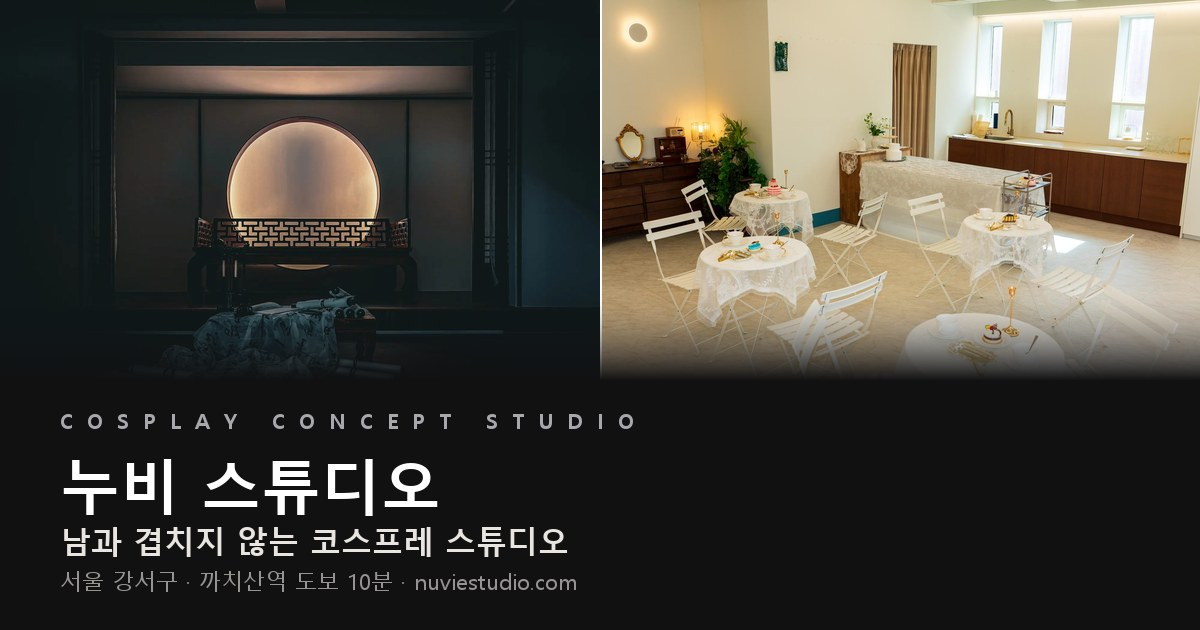
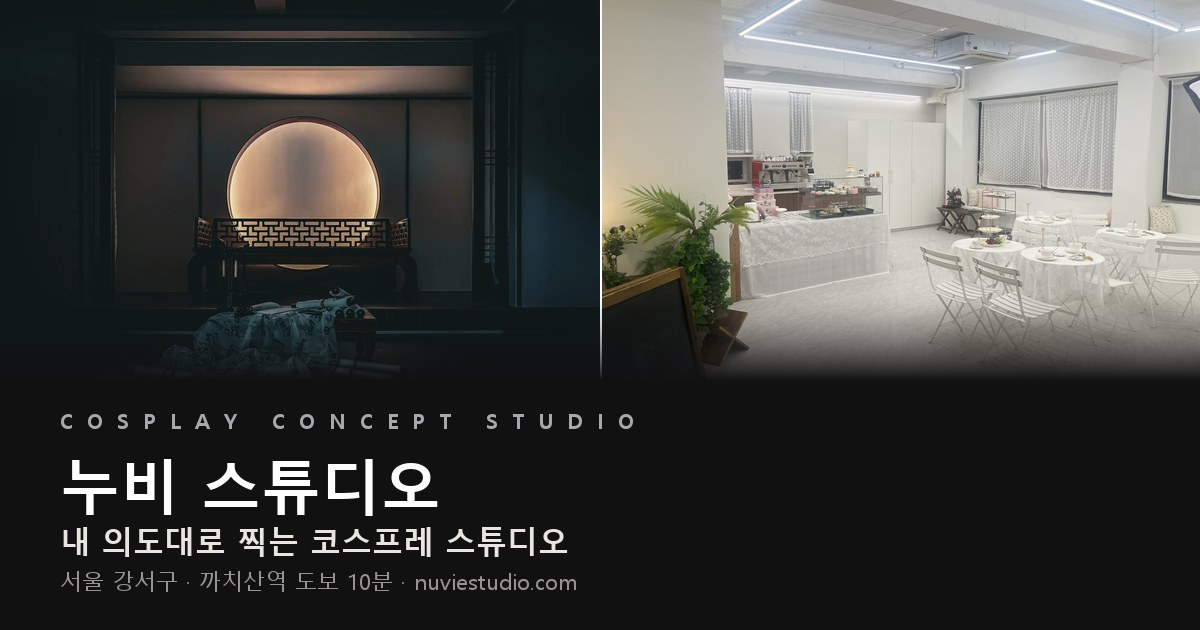
feat(hero): h1 «남과 겹치지 않는» → «내 의도대로 찍는» · OG 재생성 · 후기 테스트 하드코딩 제거
대표 09-28 «알아서»(후보 4개 중 권고안). «겹치지 않는»이 «다른 팀과 안 마주친다»로 읽힐 여지(완전격리 금지 축).
08-04 유지 사유 4가지(손님 주어·경쟁사 비교 없음·증명 부담 없음·차별화 주체=손님)는 그대로 지킨다. 근거 원문 = 리뷰 06-19.
test_build_reviews: 09-28 후기 배포(21→23)로 깨진 하드코딩 두 줄을 규칙 검사로(합계 정합·최신 후기 포함). 183 passed.

Changed region(s): [[0.4933, 0.0, 1.0, 0.6032], [0.0308, 0.8143, 0.2467, 0.9048]]

diff --git a/index.html b/index.html
@@ -182,8 +182,14 @@
                 ③"차별화됐다"는 주장이라 증명 부담이 생긴다(«겹치지 않는다»는 사진이 증명한다)
                 ④브랜드 축이 「손님 센스로 독창적인 사진」이라 차별화 주체가 손님인데, 주체가 우리로 돌아간다.
                 ⇒ 같은 제안이 다시 오면 이 4가지로 판단할 것. 문구를 바꾸려면
-                  index.html · a.html · rooms.json **세 곳을 함께** 고쳐야 한다. -->
-        <h1 data-reveal style="font-weight:700;font-size:clamp(42px,7vw,92px);line-height:.98;letter-spacing:-.035em;margin:16px 0 0;color:#FFFFFF">남과 겹치지 않는<br><span style="color:rgba(255,255,255,.68)">코스프레 스튜디오</span></h1>
+                  index.html · a.html · rooms.json **세 곳을 함께** 고쳐야 한다.
+             🔄 2026-09-28 교체 — «남과 겹치지 않는» → «내 의도대로 찍는»(대표 «알아서» · 후보 4개 중 권고안).
+                사유: 마케팅 몸 사림 점검에서 «겹치지 않는»이 «다른 팀과 안 마주친다»(완전격리 약속,
+                메모리 feedback_no_privacy_claims 금지 축)로 읽힐 여지가 지적됐다. 새 문구는 위 4가지를 그대로 지킨다 —
+                ①주어 = 손님(내 의도) ②경쟁사 비교 없음 ③증명 부담 없음(자유 배치는 사진이 증명)
+                ④차별화 주체 = 손님. 근거 원문 = 리뷰 06-19 «촬영자의 의도에 따라 다양한 분위기를».
+                a.html·rooms.json 에는 이 문구가 없다(09-28 grep) — 허브 h1 만 바뀐다. OG(og.jpg)는 build_og.py 가 이 h1 을 읽어 다시 만든다. -->
+        <h1 data-reveal style="font-weight:700;font-size:clamp(42px,7vw,92px);line-height:.98;letter-spacing:-.035em;margin:16px 0 0;color:#FFFFFF">내 의도대로 찍는<br><span style="color:rgba(255,255,255,.68)">코스프레 스튜디오</span></h1>
         <p data-reveal style="margin:22px 0 0;color:#D8D8DA;max-width:480px;font-size:16px;line-height:1.7">소품과 천을 직접 옮겨 배치하고, 천장 레일에 드레이핑까지.<br>동양풍 A룸, 자연광 B룸 두 컨셉.<br>까치산역 10분, 무인 단독 대관.</p>
         <div class="herobadges" data-reveal style="display:flex;gap:8px;flex-wrap:wrap;margin-top:24px">
           <!-- 2026-07-29 P0: 뱃지 3개가 링크도 핸들러도 없는 죽은 <span>이었다(A룸 뱃지에만 15클릭이 그대로 소멸).

diff --git a/test_build_reviews.py b/test_build_reviews.py
@@ -66,13 +66,16 @@ def test_main_reviews_are_a_b_integrated():
     html = open(os.path.join(HERE, "index.html"), encoding="utf-8").read()
 
     assert B.REVIEWS.endswith("reviews_all.json")
-    assert data["count"] == len(data["reviews"]) == 21
+    # 건수는 박아 두지 않는다(09-28 후기 배포로 21→23 이 되자 이 줄이 깨졌다). 규칙 = 메인은 A·B 합계, 파일 안에서 정합.
+    assert data["count"] == len(data["reviews"]) >= 21
     assert data["source"] == "A+B 통합(메인 집계)"
     assert "fetch('reviews_all.json',{cache:'no-store'})" in html
     assert "fetch('reviews.json'" not in html
-    assert "정말 예쁜사진" in html
-    assert "조명 많고 스탠드" in html
-    assert '"ratingValue":"5.0","reviewCount":"21"' in html
+    # 특정 후기 문장을 박아 두지 않는다(09-28 새 후기 2건이 들어오자 옛 문장이 정적 목록에서 밀려 깨졌다).
+    # 규칙 = 정적 HTML 에 최신 후기(파일 맨 앞)가 들어 있다.
+    newest = data["reviews"][0]["text"].strip().split("\n")[0][:12]
+    assert newest and newest in html
+    assert f'"ratingValue":"5.0","reviewCount":"{data["count"]}"' in html
 
 
 def test_every_review_rating_is_a_number_not_a_string():
